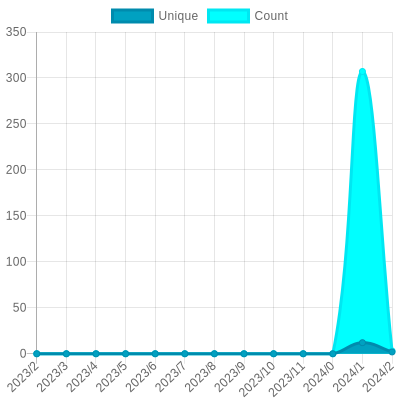
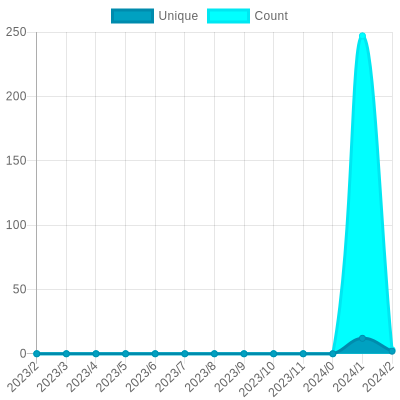
Update views

diff --git a/readme/603401099/year.md b/readme/603401099/year.md
@@ -37,7 +37,7 @@
 			<code>12</code>
 		</td>
 		<td>
-			<code>307</code>
+			<code>247</code>
 		</td>
 	</tr>
 	<tr>
@@ -164,7 +164,7 @@
 </table>
 
 </details>
-<small><i>Last updated on 2023/3/5 6:06 AM UTC</i></small>
+<small><i>Last updated on 2023/3/5 12:08 PM UTC</i></small>
 
 ## ✂Copy and 📋 Paste
 ### SVG Badge

diff --git a/README.md b/README.md
@@ -37,7 +37,7 @@ The project created and maintained by [gayanvoice](https://github.com/gayanvoice
 	</tr>
 </table>
 
-<small><i>Last updated on 2023/3/5 6:06 AM UTC</i></small>
+<small><i>Last updated on 2023/3/5 12:08 PM UTC</i></small>
 
 ## ✂Copy and 📋 Paste
 ### Total Views Badge
